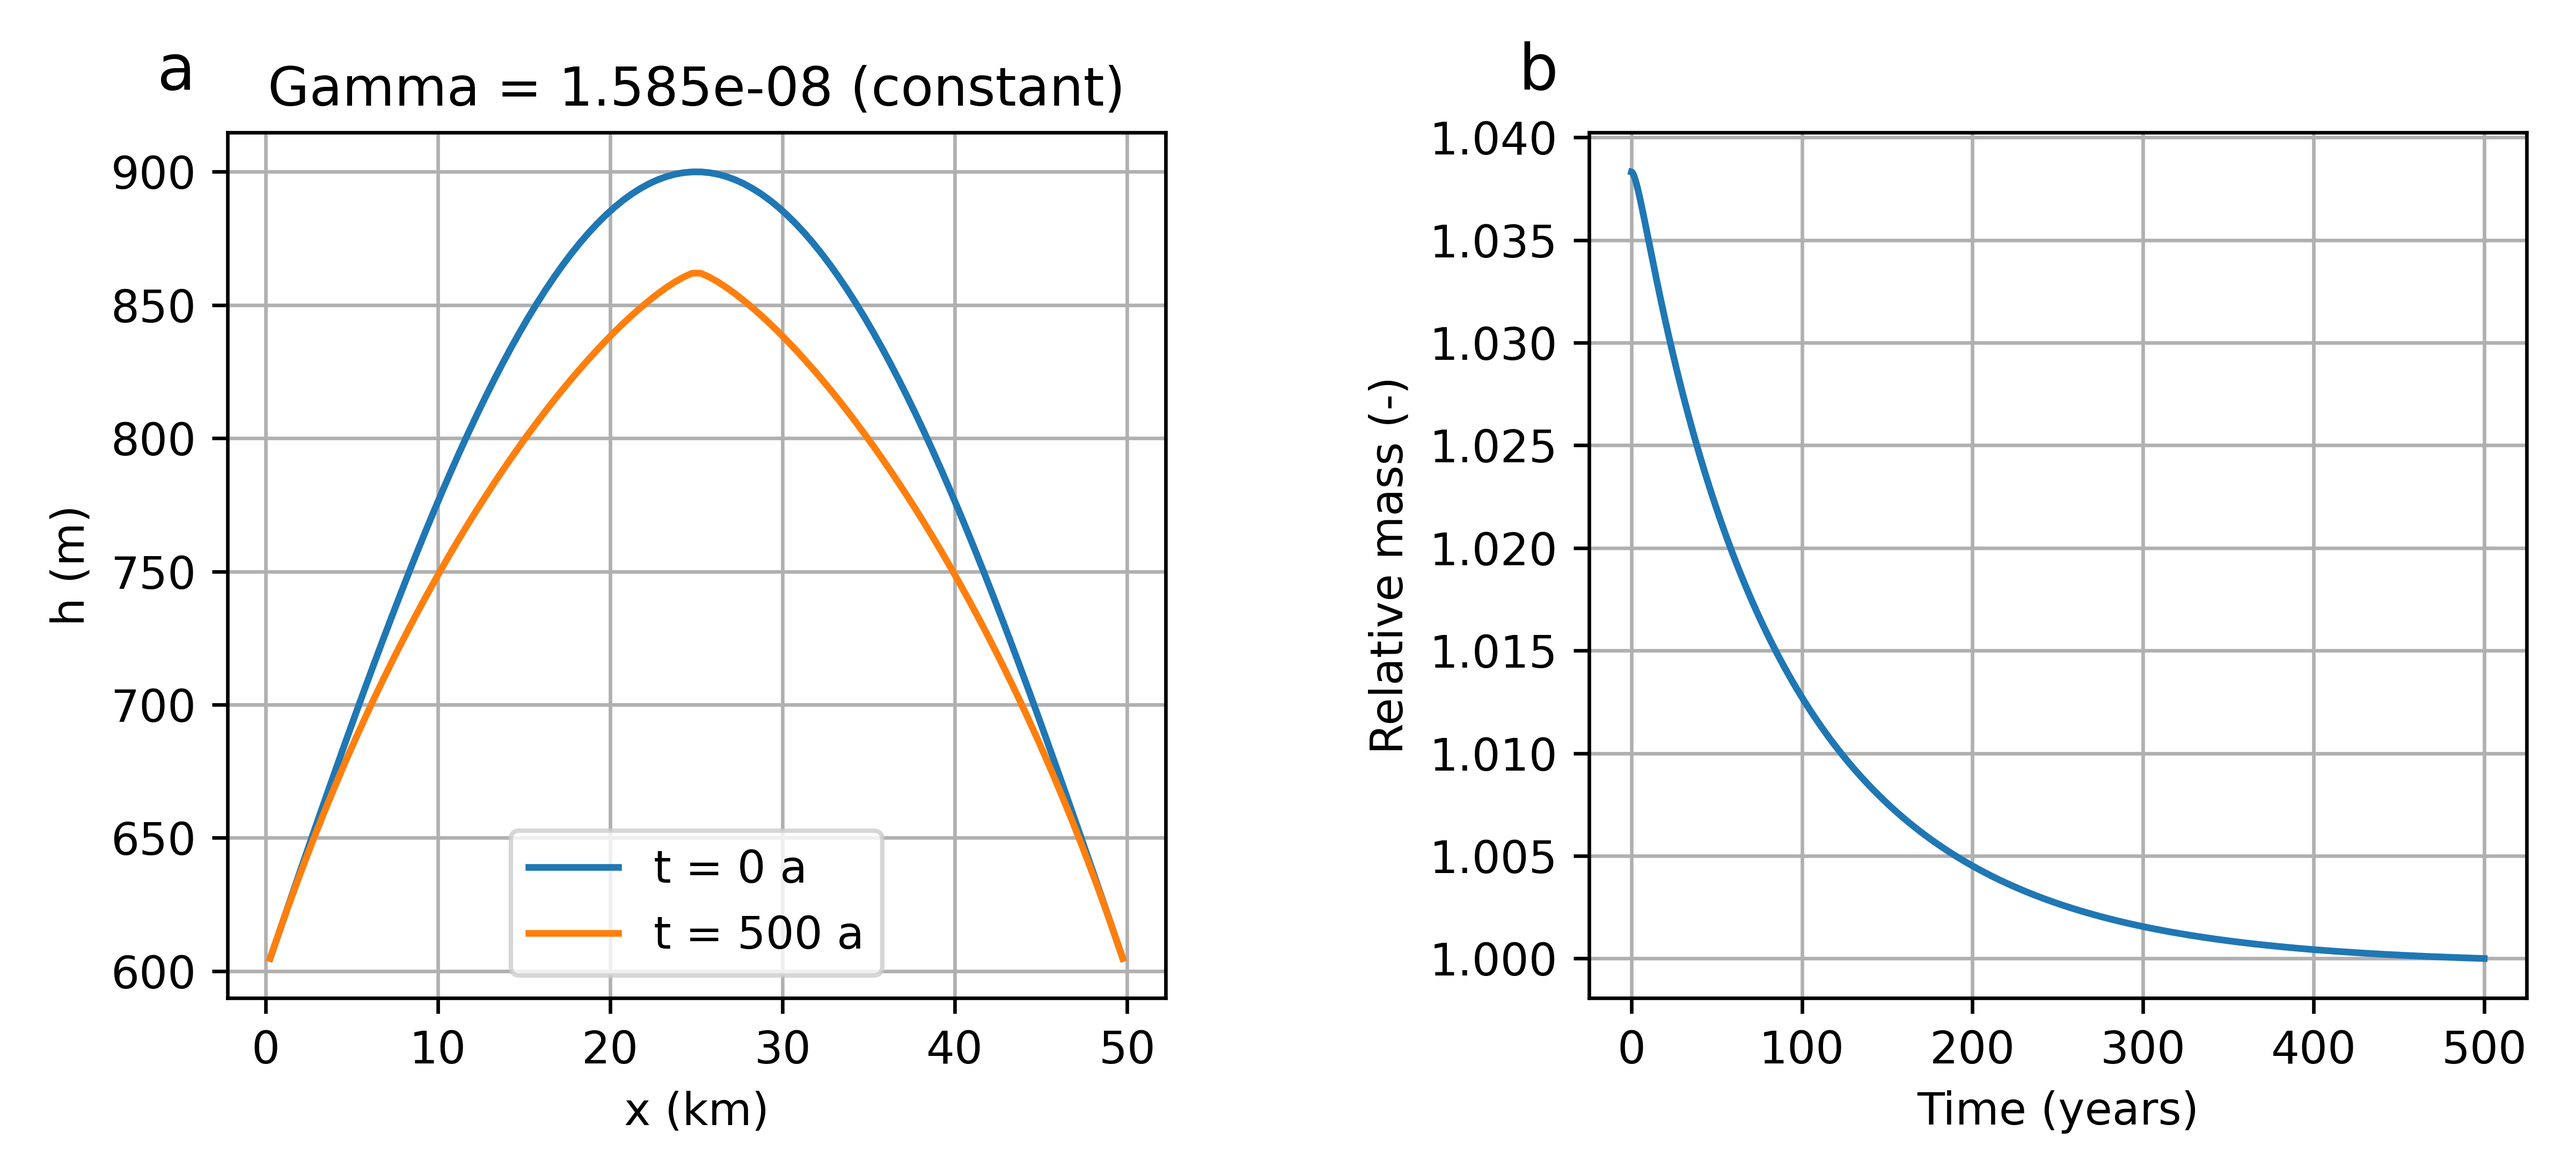
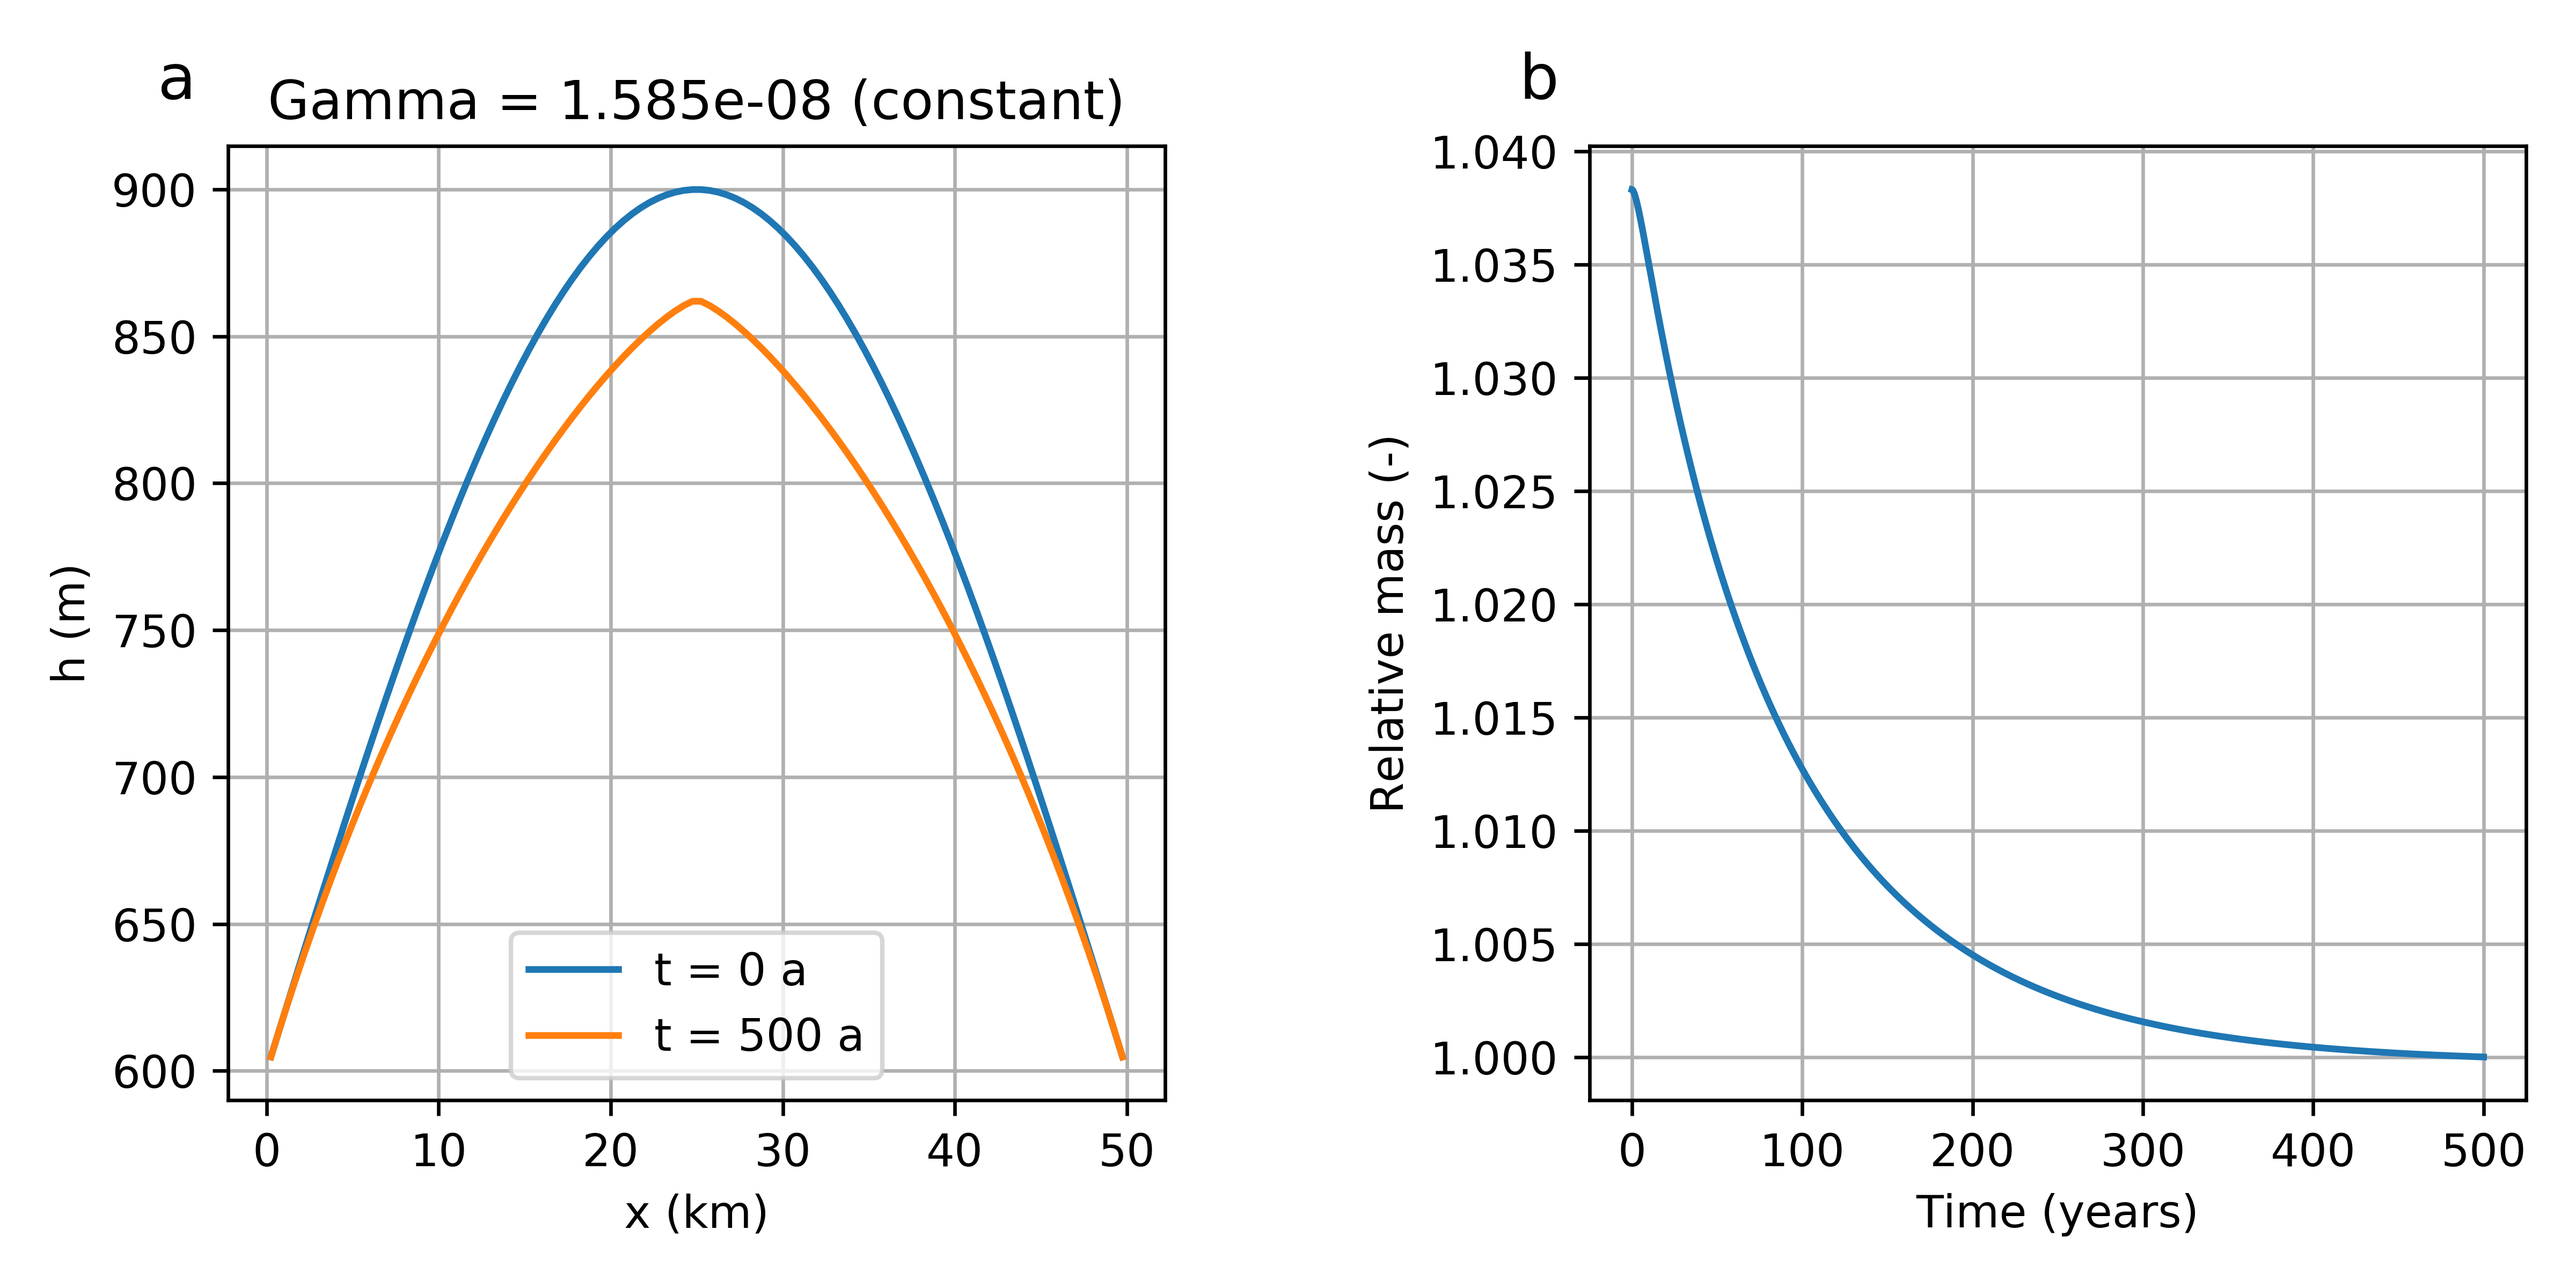
Add valley case

diff --git a/run_valley.py b/run_valley.py
@@ -1,0 +1,75 @@
+
+import numpy as np
+from matplotlib import pyplot as plt
+
+from SIA import solve_SIA
+
+## First set geometry, parameters, and integration time
+
+# DOMAIN
+L = 50e3                           # Domain length (m)
+N = 100                             # Number of grid centre points
+dx = L/N
+
+xc = np.arange(dx/2, L+dx/2, dx)    # Cell centre coordinates
+xe = np.arange(0, L+dx, dx)         # Cell edge coordinates
+
+# MASS BALANCE
+# Specify constant mass balance. Gamma is interpreted as the
+# constant mass balance (m w.e./a) if balance is 'constant', and
+# interpreted as the mass-balance gradient (m w.e./a/m) is
+# balance is 'linear'.
+Gamma = 0.007/(365*86400)           # Mass-balance (m w.e./a)
+balance = 'linear'                  # 'constant' or 'linear'
+
+b0 = 1800                           # Reference bed elevation (m)
+zELA = 1400                         # Equilibrium line altitude. Not used
+                                    # if balance is 'constant'
+zb = b0 - 1/20*xc                   # Flat bed elevation
+
+# INITIAL THICKNESS
+h0 = 150*np.ones(xc.shape)
+
+# INTEGRATION
+t0 = 0                              # Start time (seconds)
+tend = 750*365*86400                # End time (seconds)
+dt = 30*86400                       # Time step (seconds). This can be large
+                                    # since we use implicit timestepping
+                                    
+tt = np.arange(t0, tend+dt, dt)     # Solution time array
+
+# Numerical parameters
+method = 'CN'                       # Crank-Nicolson implicit timestepping
+# https://en.wikipedia.org/wiki/Crank%E2%80%93Nicolson_method
+
+bcs = ('no-flux', 'no-flux')    # Boundary conditions: No flux
+
+## Run the SIA solver
+H1 = solve_SIA(tt, xc, h0, zb, zELA=zELA, method=method,
+    Gamma=Gamma, bcs=bcs, b=balance)
+
+## Plot the solution
+fig1, (ax1, ax2) = plt.subplots(ncols=2, figsize=(8, 4))
+
+ax1.plot(xc/1e3, zb, color='k')
+ax1.plot(xc/1e3, zb + H1[0, :], label='t = 0 a')
+ax1.plot(xc/1e3, zb + H1[-1, :], label='t = 500 a')
+ax1.legend()
+ax1.grid()
+ax1.set_xlabel('x (km)')
+ax1.set_ylabel('h (m)')
+ax1.text(-0.075, 1.05, 'a', transform=ax1.transAxes, fontsize=14)
+
+rho = 910
+tot_mass = rho*np.sum(H1*dx, axis=1)
+ax2.plot(tt/365/86400, tot_mass/tot_mass[-1])
+ax2.grid()
+ax2.set_xlabel('Time (years)')
+ax2.set_ylabel('Relative mass (-)')
+ax1.text(-0.075, 1.05, 'b', transform=ax2.transAxes, fontsize=14)
+ax1.set_title('Gamma = %.3e (%s)' % (Gamma, balance))
+
+plt.tight_layout()
+
+plt.show()
+fig1.savefig('valley.png', dpi=600)
